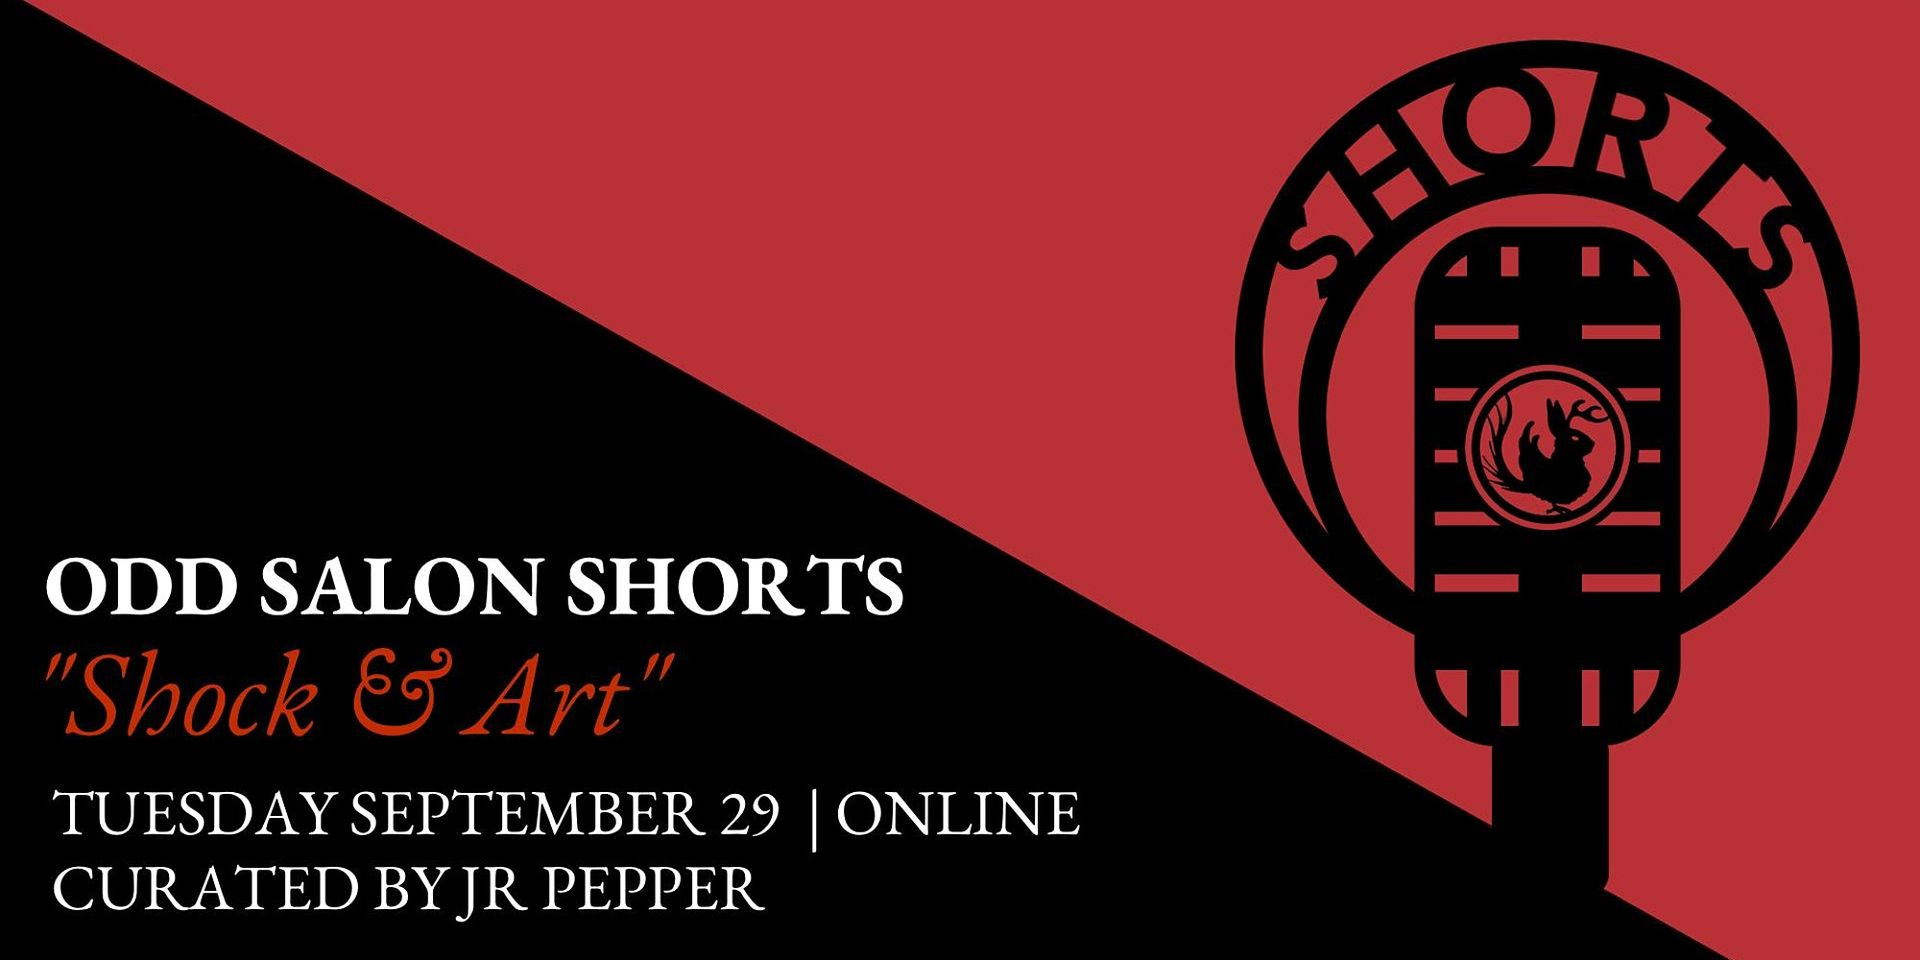
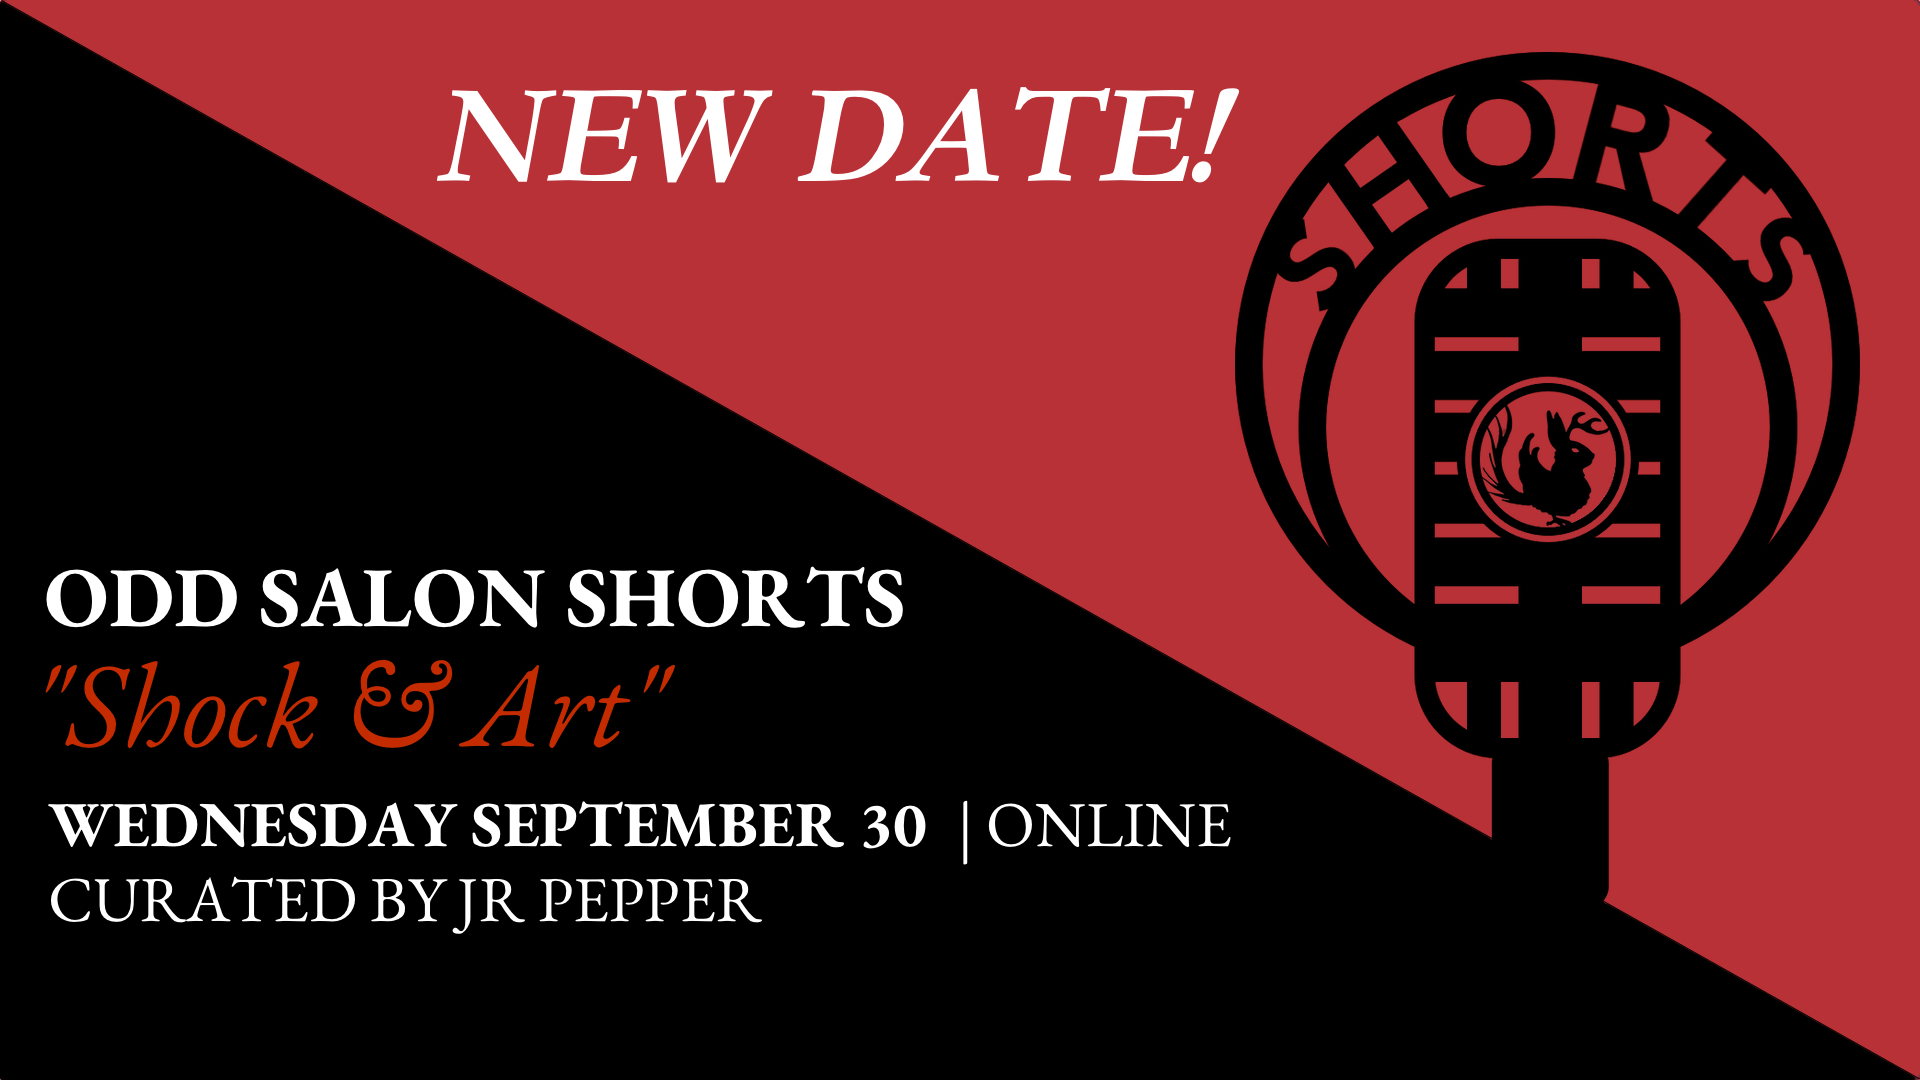
Update promo images to reflect new date

diff --git a/public/styles/main.css b/public/styles/main.css
@@ -351,15 +351,15 @@ h3 {
     background-image: url("/images/screenshot-mobile.png");
   }
   #promo-container {
-    top: calc(50% - 146px);
+    top: calc(50% - 210px);
     width: 300px;
     position: relative;
     display: block;
     margin: auto;
   }
   #promo-image {
-    background-image: url("/images/shock.jpg");
-    height: 150px;
+    background-image: url("/images/shock-mobile.jpg");
+    height: 300px;
     width: 300px;
   }
   #promo-social,
